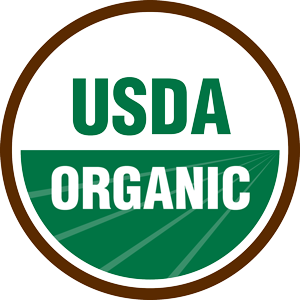
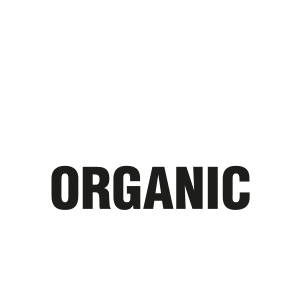
update

diff --git a/products-test.html b/products-test.html
@@ -12,7 +12,6 @@
     <script>
         // Picture element HTML5 shiv
         document.createElement("picture");
-
     </script>
 </head>
 
@@ -42,9 +41,7 @@
                             <a class="nav-link btn" href="philosophy-test.html">Philosophy</a>
                         </li>
                         <li class="nav-item d-none d-md-block m-auto">
-                            <h1>
-                                <a id="grandmas-treasures-logo" class="nav-link" title="Grandma's Treasures - Delray Beach, Florida" href="gthome.html"><img class="main-logo" alt="Grandma's Treasures - Authentic German Food, Farm inspired Recipes" src="img/gt-png.png"></a>
-                            </h1>
+                            <a id="grandmas-treasures-logo" class="nav-link" title="Grandma's Treasures - Delray Beach, Florida" href="gthome.html"><img class="main-logo" alt="Grandma's Treasures - Authentic German Food, Farm inspired Recipes" src="img/gt-png.png"></a>
                         </li>
                         <li class="nav-item m-auto">
                             <a class="nav-link btn" href="store-test.html">Store</a>
@@ -66,7 +63,6 @@
                     <p class="lead">Discover the variety of our authentic and delicious Products</p>
                 </div>
             </div>
-
             <div id="accordion" role="tablist" class="d-sm-none">
                 <div class="card">
                     <div class="card-header" role="tab" id="headingOne">
@@ -478,14 +474,14 @@
 
             <div class="row">
                 <div class="col-md-8 offset-md-2 disclaimer mb-5">
-                    <h3 class="h3-disclaimer text-center">The Quality of Our Products</h3>
+                    <h3 class="h3-disclaimer text-center mt-3">The Quality of Our Products</h3>
                     <p class="paragraph text-justify pt-0 my-4">We take pride in providing only the best products, made not only with natural and fresh ingredients, but also love. There are no preservatives or artificial ingredients, so you can feel good knowing that our sweet and savory treats are good for you and your family. </p>
                     <p class="paragraph text-justify pt-0">We are also in the process of becoming USDA Certified Organic! </p>
                     <p class="lead text-center">The Best Best Flour for the Best Products</p>
                     <p class="paragraph text-justify pt-0">All of our flour for our baked goods comes directly from Gut Rosenkrantz, the largest organic flour mill in North Germany.</p>
                     <div class="disclaimer-logos text-center">
-                        <img class="img-fluid" src="img/Organic4colorseal.png"/>
-                        <img class="img-fluid" src="img/rosenkrantz-org1.png"/>
+                        <a href="//www.ams.usda.gov/grades-standards/organic-standards" title="Organic Standards | Agricultural Marketing Service" rel="external" target="_blank"><img class="img-fluid" src="img/OrganicBlackWhiteseal.png" data-toggle="tooltip" data-html="true" data-placement="bottom" title="<i class='fa fa-external-link fa-lg' aria-hidden='true'></i>"  alt="The USDA Organic Seal"/></a>
+                        <a href="//www.gut-rosenkrantz.de/" title="Gut Rosenkrantz - Handelsgesellschaft f&uuml;r Naturprodukte mbH" rel="external" target="_blank"><img class="img-fluid" alt="Handelsgesellschaft für Naturprodukte Gut Rosenkrantz" src="img/rosenkrantz-org1.png" data-toggle="tooltip" data-html="true" data-placement="bottom" title="<i class='fa fa-external-link fa-lg' aria-hidden='true'></i>" /></a>
                     </div>
                 </div>
             </div>
@@ -538,9 +534,18 @@
 
     <!-- JS Bootstrap -->
 
-    <script src="https://code.jquery.com/jquery-3.2.1.slim.min.js" integrity="sha384-KJ3o2DKtIkvYIK3UENzmM7KCkRr/rE9/Qpg6aAZGJwFDMVNA/GpGFF93hXpG5KkN" crossorigin="anonymous"></script>
+    <script src="https://code.jquery.com/jquery-3.2.1.slim.min.js" integrity="sha384-KJ3o2DKtIkvYIK3UENzmM7KCkRr/rE9/Qpg6aAZGJwFDMVNA/GpGFF93hXpG5KkN" crossorigin="anonymous">
+    </script>
     <script src="https://cdnjs.cloudflare.com/ajax/libs/popper.js/1.12.3/umd/popper.min.js" integrity="sha384-vFJXuSJphROIrBnz7yo7oB41mKfc8JzQZiCq4NCceLEaO4IHwicKwpJf9c9IpFgh" crossorigin="anonymous"></script>
     <script src="https://maxcdn.bootstrapcdn.com/bootstrap/4.0.0-beta.2/js/bootstrap.min.js" integrity="sha384-alpBpkh1PFOepccYVYDB4do5UnbKysX5WZXm3XxPqe5iKTfUKjNkCk9SaVuEZflJ" crossorigin="anonymous"></script>
+        <script>
+        $(document).ready(function () {
+            $(function () {
+$("[data-toggle=tooltip]").tooltip();
+})
+});
+
+    </script>
 
 </body>
 

diff --git a/philosophy-test.html b/philosophy-test.html
@@ -43,9 +43,7 @@
                             <a class="nav-link btn" href="philosophy-test.html">Philosophy<span class="sr-only">(current)</span></a>
                         </li>
                         <li class="nav-item d-none d-md-block m-auto">
-                            <h1>
                                 <a id="grandmas-treasures-logo" class="nav-link" title="Grandma's Treasures - Delray Beach, Florida" href="gthome.html"><img class="main-logo" alt="Grandma's Treasures - Authentic German Food, Farm inspired Recipes" src="img/gt-png.png"></a>
-                            </h1>
                         </li>
                         <li class="nav-item m-auto">
                             <a class="nav-link btn" href="store-test.html">Store</a>

diff --git a/store-test.html b/store-test.html
@@ -42,9 +42,7 @@
                             <a class="nav-link btn" href="philosophy-test.html">Philosophy</a>
                         </li>
                         <li class="nav-item d-none d-md-block m-auto">
-                            <h1>
                                 <a id="grandmas-treasures-logo" class="nav-link" title="Grandma's Treasures - Delray Beach, Florida" href="gthome.html"><img class="main-logo" alt="Grandma's Treasures - Authentic German Food, Farm inspired Recipes" src="img/gt-png.png"></a>
-                            </h1>
                         </li>
                         <li class="nav-item m-auto">
                             <a class="nav-link btn" href="store-test.html">Store<span class="sr-only">(current)</span></a>

diff --git a/policy.html b/policy.html
@@ -43,9 +43,7 @@
                             <a class="nav-link btn" href="philosophy-test.html">Philosophy</a>
                         </li>
                         <li class="nav-item d-none d-md-block m-auto">
-                            <h1>
                                 <a id="grandmas-treasures-logo" class="nav-link" title="Grandma's Treasures - Delray Beach, Florida" href="gthome.html"><img class="main-logo" alt="Grandma's Treasures - Authentic German Food, Farm inspired Recipes" src="img/gt-png.png"></a>
-                            </h1>
                         </li>
                         <li class="nav-item m-auto">
                             <a class="nav-link btn" href="store-test.html">Store</a>

diff --git a/css/styles.css b/css/styles.css
@@ -301,8 +301,30 @@
 }
 
 .disclaimer-logos {
-    background-color: white;
-    
+
+}
+
+.tooltip {
+    margin-top: -30px;
+}
+
+.arrow {
+    background-color: var(--hover);
+}
+
+.arrow::before {
+    border-top-color: var(--hover);
+}
+
+.tooltip-inner {
+    /* If max-width does not work, try using width instead */
+    width: 100%; 
+    height: 100%;
+    padding: 15px 10px;
+    background-color: var(--hover);
+}
+#html-container .fa-external-link {
+    font-size: 3rem;
 }
 
 .disclaimer > p {
